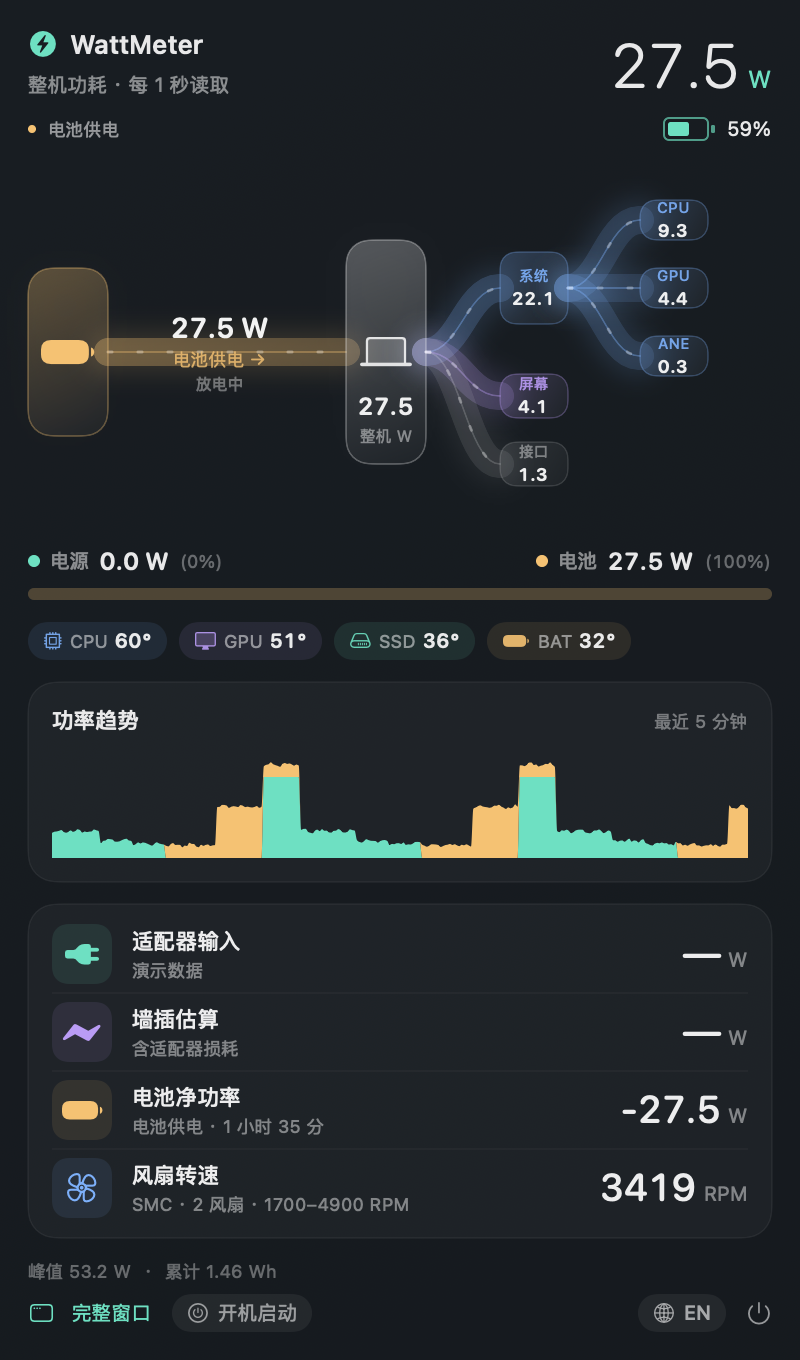
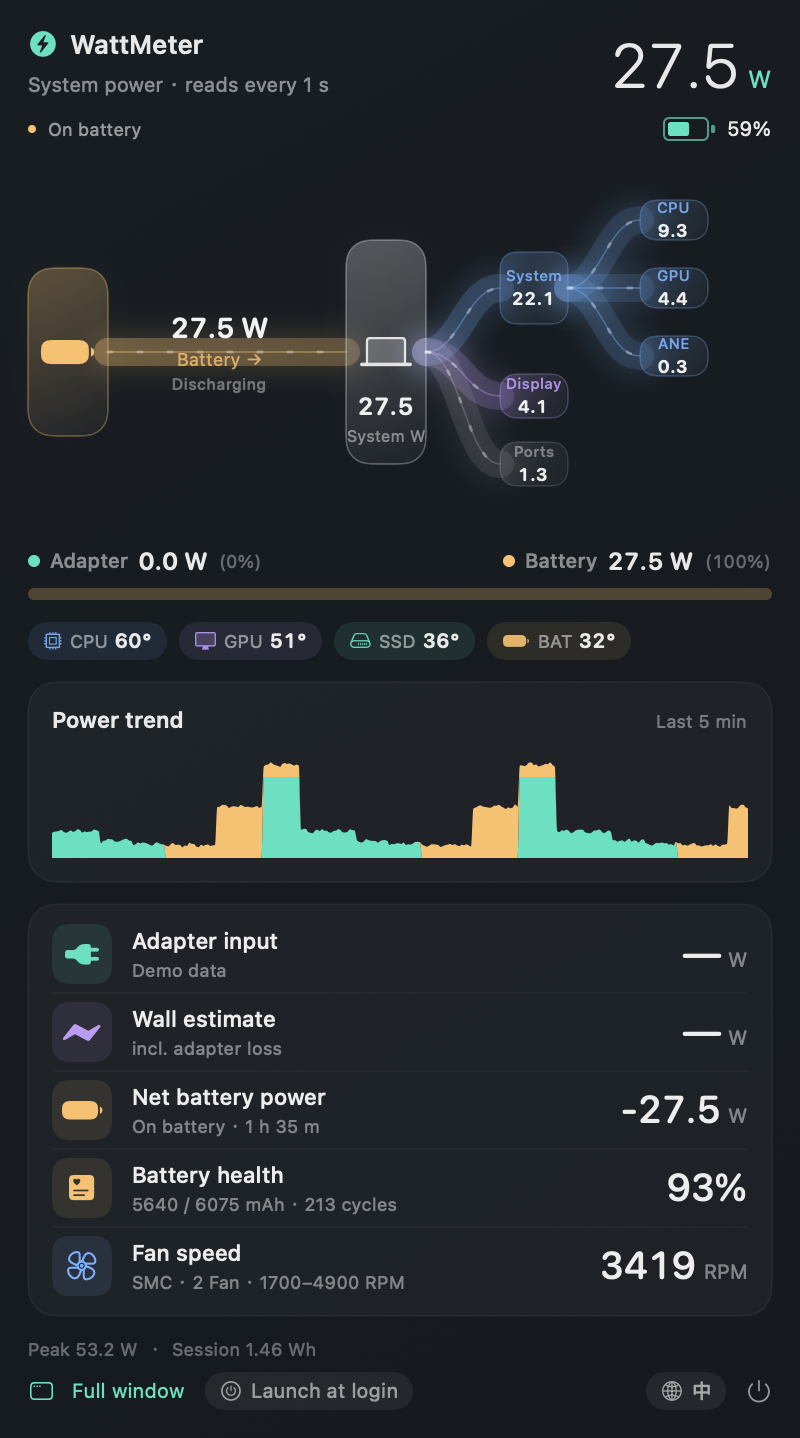
release: 1.4.0
- bump to 1.4.0 (build 10)
- release notes for battery health
- refreshed preview screenshots (panel 720pt, main window 880pt)

diff --git a/docs/release-notes-1.4.0.md b/docs/release-notes-1.4.0.md
@@ -1,0 +1,100 @@
+# WattMeter 1.4.0
+
+A native macOS menu-bar power monitor: live power (adapter input by default), adapter vs battery
+split, CPU / GPU / ANE / DRAM power, temperatures, fan speed, and a Sankey-style power-flow diagram.
+
+## New
+
+### Battery health: full-charge / design capacity and cycle count
+
+The battery card now shows the pack's health, read straight from the IORegistry
+`AppleSmartBattery` node — the same source `ioreg` uses, no root and no extra permissions:
+
+| Value | IORegistry key |
+| --- | --- |
+| Design capacity | `DesignCapacity` |
+| Full-charge capacity | `AppleRawMaxCapacity` (fallback `NominalChargeCapacity`, then legacy `MaxCapacity`) |
+| Health | full-charge ÷ design, e.g. 5640 / 6075 = **93%** |
+| Cycle count | `CycleCount` |
+| Design cycle limit | `DesignCycleCount9C` |
+| Health / condition text | IOPS `BatteryHealth` / `BatteryHealthCondition` |
+
+Where it shows up:
+
+- **Menu bar panel**: a new “Battery health” row (`5640 / 6075 mAh · 213 cycles`), the panel grew from
+  680 to 720 pt to fit it.
+- **Main window**: the battery card has the same row.
+- **Menu bar tooltip**: health percentage and cycle count.
+- **About → Copy diagnostics** and `--battery` now include the capacity / cycle lines.
+
+On a desktop (no battery) the row reads “No internal battery”; machines whose firmware does not
+report capacities show “Capacity not reported” instead of a wrong number.
+
+### Diagnostics
+
+```bash
+/Applications/WattMeter.app/Contents/MacOS/WattMeter --battery-keys
+```
+
+prints every `AppleSmartBattery` key related to capacity / cycles / health, so it is easy to check
+whether a machine reports these values.
+
+## Also included since 1.2.2
+
+Everything from 1.3.x: menu bar shows adapter input and can switch metric (wall estimate / system
+power / battery power), self-healing status item, split line-chart Y domain, About window, flow
+diagram with CPU / GPU / ANE / DRAM branches and a single hub per side, English-primary UI with
+Chinese available, launch at login, macOS 13+ universal binary.
+
+## Requirements
+
+- **macOS 13 or later** (macOS 13 / 14 / 15 and newer)
+- **Apple Silicon (M-series) or Intel Mac** — universal binary (`arm64` + `x86_64`)
+- No root, no kernel extension, no network access; the app only reads IOKit / SMC
+
+## Install
+
+1. Download **WattMeter-1.4.0.dmg** and open it.
+2. Drag **WattMeter.app** into Applications, eject.
+3. First launch: right-click → Open (ad-hoc signed), or
+   `xattr -dr com.apple.quarantine /Applications/WattMeter.app`
+
+## 简体中文
+
+### 新增：电池健康度（满充容量 / 设计容量）与循环次数
+
+电池卡片现在直接读 IORegistry 的 `AppleSmartBattery` 节点（和 `ioreg` 同一个数据源，不需要
+root，也不需要任何额外权限）：
+
+| 数值 | 对应键 |
+| --- | --- |
+| 设计容量 | `DesignCapacity` |
+| 满充容量 | `AppleRawMaxCapacity`（回退 `NominalChargeCapacity`，再回退旧机型的 `MaxCapacity`） |
+| 健康度 | 满充 ÷ 设计，例如 5640 / 6075 = **93%** |
+| 循环次数 | `CycleCount` |
+| 设计循环上限 | `DesignCycleCount9C` |
+| 健康 / 状态文案 | IOPS `BatteryHealth` / `BatteryHealthCondition` |
+
+显示位置：
+
+- **菜单栏面板**：新增「电池健康」一行（`5640 / 6075 mAh · 213 次`），面板高度从 680 调整到 720；
+- **主窗口**：电池卡片同样新增这一行；
+- **菜单栏 tooltip**：健康度百分比与循环次数；
+- **关于 → 复制诊断信息** 与 `--battery` 也会输出容量 / 循环信息。
+
+台式机（无电池）显示「本机无内置电池」；固件不报容量的机型显示「系统未提供容量数据」，
+不会显示错误的数字。
+
+### 诊断命令
+
+```bash
+/Applications/WattMeter.app/Contents/MacOS/WattMeter --battery-keys
+```
+
+会列出 `AppleSmartBattery` 中与容量 / 循环 / 健康相关的全部键值，方便确认某台机器是否上报这些数据。
+
+### 同时包含 1.2.2 以来的全部更新
+
+包括 1.3.x 的全部内容：菜单栏默认显示电源输入并可切换口径、状态项自愈、折线图 Y 轴同时覆盖
+两条曲线、关于窗口、流向图 CPU / GPU / ANE / DRAM 分项与左右单一枢纽、界面以英文为主可切中文、
+登录时启动、macOS 13+ 通用二进制。
